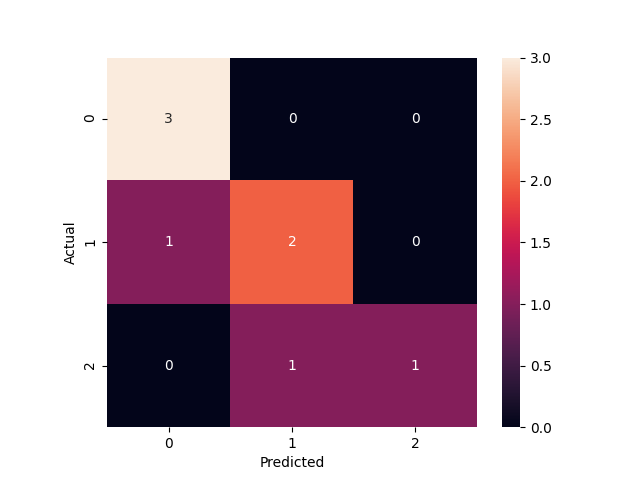
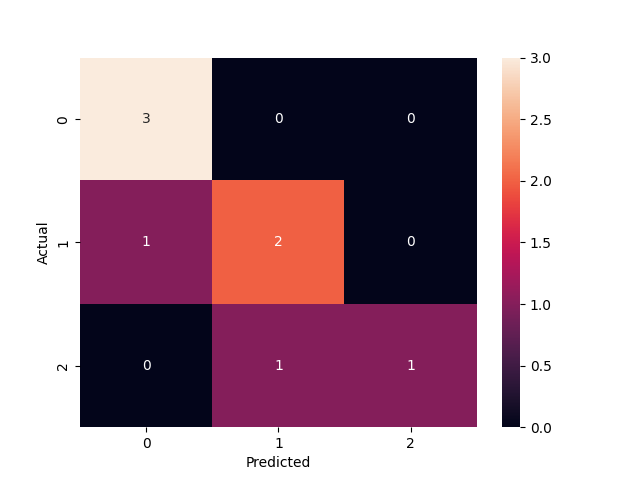
updated code

diff --git a/week12_ml/multiple_models_example.py b/week12_ml/multiple_models_example.py
@@ -46,7 +46,7 @@ print("y predictions: ", y_pred)
 # print("y actuals: ", y_test)
 
 confusion_matrix = pd.crosstab(y_test, y_pred, rownames=['Actual'], colnames=['Predicted'])
-sn.heatmap(confusion_matrix, annot=True).get_figure().savefig("/home/ec2-user/environment/code/week12_ml/random_forest.png")
+sn.heatmap(confusion_matrix, annot=True).get_figure().savefig("/home/ubuntu/environment/data5500.fa21/week12_ml/random_forest.png")
 # sn.get_figure().savefig("results.png")
 print('Accuracy: ',metrics.accuracy_score(y_test, y_pred))
 plt.show()
@@ -79,7 +79,7 @@ for model in models:
             
             
     confusion_matrix = pd.crosstab(y_test, y_pred, rownames=['Actual'], colnames=['Predicted'])
-    sn.heatmap(confusion_matrix, annot=True).get_figure().savefig("/home/ec2-user/environment/code/week12_ml/random_forest.png")
+    sn.heatmap(confusion_matrix, annot=True).get_figure().savefig("/home/ubuntu/environment/data5500.fa21/week12_ml/" + str(model) + ".png")
     # sn.get_figure().savefig("results.png")
     print('Accuracy: ',metrics.accuracy_score(y_test, y_pred))
     plt.show()

diff --git a/week10_regression/regression_boston_housing.py b/week10_regression/regression_boston_housing.py
@@ -11,6 +11,10 @@ boston = datasets.load_boston(return_X_y=False)
 # defining feature matrix(X) and response vector(y)
 X = boston.data
 y = boston.target
+
+
+X = np.array([0, 1, 2, 3, 4, 5, 6, 7, 8, 9]).reshape(-1,1)
+y = np.array([1, 3, 2, 5, 7, 8, 8, 9, 10, 12])#.reshape(-1,1)
  
 # splitting X and y into training and testing sets
 from sklearn.model_selection import train_test_split
